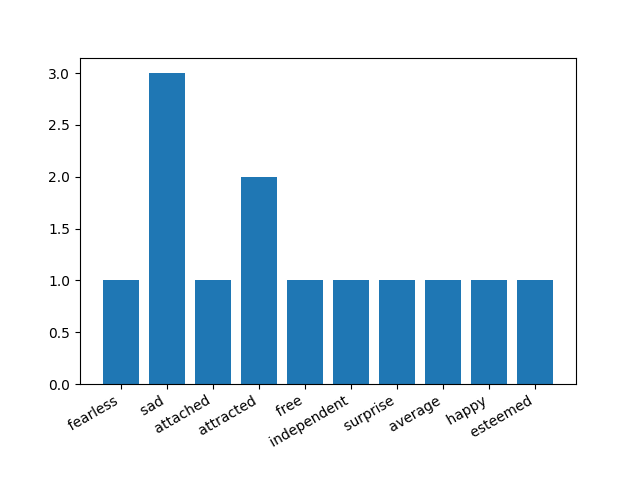
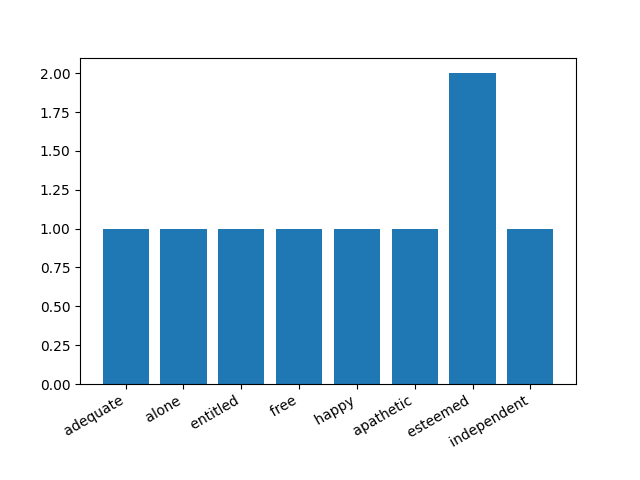
update

diff --git a/NLTK_sentiment_Analysis.py b/NLTK_sentiment_Analysis.py
@@ -5,7 +5,7 @@ from nltk.corpus import stopwords
 from nltk.sentiment.vader import SentimentIntensityAnalyzer
 import matplotlib.pyplot as plt
 
-text = open(r"C:\Users\ANUBHAV UTKARSH\OneDrive\Desktop\Sentiment Analysis Project\file1.csv", encoding='utf-8').read()
+text = open(r"C:\Users\ANUBHAV UTKARSH\OneDrive\Desktop\Sentiment Analysis Project\file.txt", encoding='utf-8').read()
 
 lower_case = text.lower()
 
